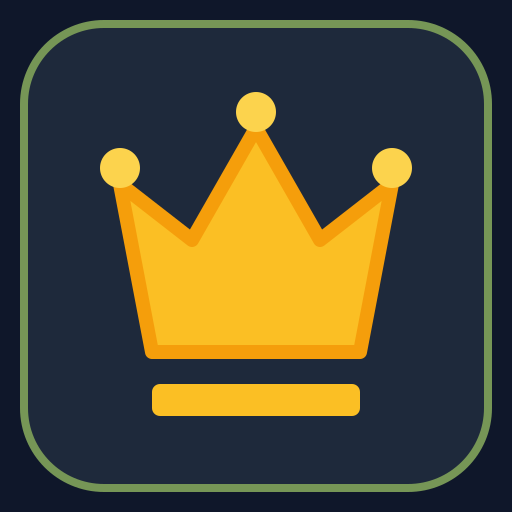
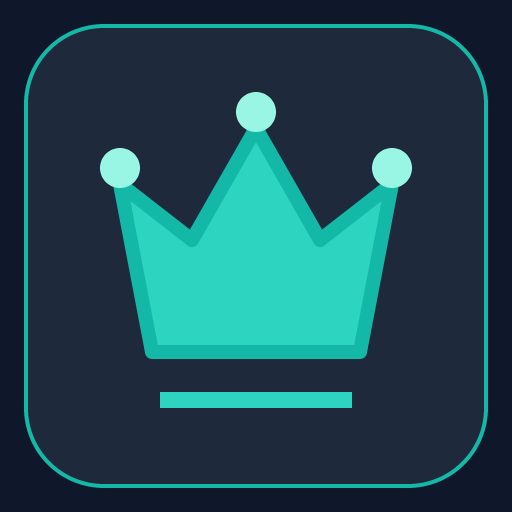
update

Changed region(s): [[0.1875, 0.1562, 0.8125, 0.7188], [0.0312, 0.0312, 0.9688, 0.9688], [0.2812, 0.75, 0.7188, 0.8125]]

diff --git a/src/components/PuzzlePlayer/PuzzlePlayer.tsx b/src/components/PuzzlePlayer/PuzzlePlayer.tsx
@@ -318,7 +318,7 @@ export const PuzzlePlayer: React.FC<PuzzlePlayerProps> = ({
 
   return (
     <div className="flex flex-col items-center w-full max-w-xl mx-auto px-3 sm:px-4 pb-20">
-      <div className="w-full mb-1.5 flex items-center justify-between gap-2 rounded-lg border border-amber-500/20 bg-amber-500/5 px-3 py-1.5 text-[11px] font-semibold leading-snug text-amber-200/90">
+      <div className="w-full mb-1.5 flex items-center justify-between gap-2 rounded-lg border border-teal-500/20 bg-teal-500/5 px-3 py-1.5 text-[11px] font-semibold leading-snug text-teal-200/90">
         <span className="min-w-0 truncate">{categoryLine}</span>
         {hasVariations && (
           <div className="flex shrink-0 items-center gap-1">
@@ -335,8 +335,8 @@ export const PuzzlePlayer: React.FC<PuzzlePlayerProps> = ({
                   title={`${variation.label}${isComplete ? ' (completed)' : ''}`}
                   className={`rounded-md border px-2 py-1 text-[10px] font-semibold transition-colors ${
                     isSelected
-                      ? 'border-sky-400 bg-sky-400/20 text-sky-100'
-                      : 'border-slate-700 bg-slate-900 text-slate-300 hover:border-sky-500/60'
+                      ? 'border-teal-400 bg-teal-400/20 text-teal-100'
+                      : 'border-slate-700 bg-slate-900 text-slate-300 hover:border-teal-500/60'
                   }`}
                 >
                   V{index + 1}{isComplete ? ' ✓' : ''}
@@ -366,10 +366,10 @@ export const PuzzlePlayer: React.FC<PuzzlePlayerProps> = ({
             title={isBookmarked ? 'Remove from favorites' : 'Add to favorites'}
             aria-label={isBookmarked ? 'Remove from favorites' : 'Add to favorites'}
             className={`p-2 rounded-lg transition-colors min-h-[36px] min-w-[36px] flex items-center justify-center ${
-              isBookmarked ? 'text-amber-400 bg-amber-400/10' : 'text-slate-400 hover:text-slate-200 hover:bg-slate-800'
+              isBookmarked ? 'text-teal-400 bg-teal-400/10' : 'text-slate-400 hover:text-slate-200 hover:bg-slate-800'
             }`}
           >
-            <Bookmark className={`w-4 h-4 ${isBookmarked ? 'fill-amber-400' : ''}`} />
+            <Bookmark className={`w-4 h-4 ${isBookmarked ? 'fill-teal-400' : ''}`} />
           </button>
 
           <button
@@ -388,7 +388,7 @@ export const PuzzlePlayer: React.FC<PuzzlePlayerProps> = ({
             aria-label="Flip board orientation"
             className="px-2 py-1 text-slate-300 hover:text-white bg-slate-800/90 hover:bg-slate-700/90 rounded-lg text-xs font-medium flex items-center gap-1 transition-colors min-h-[36px]"
           >
-            <RotateCw className="w-3.5 h-3.5 text-amber-400" />
+            <RotateCw className="w-3.5 h-3.5 text-teal-400" />
             <span className="hidden xs:inline">Flip</span>
           </button>
 
@@ -401,7 +401,7 @@ export const PuzzlePlayer: React.FC<PuzzlePlayerProps> = ({
             ) : activeMoves.length > 0 ? (
               <span className="text-slate-400 font-medium">Practice</span>
             ) : (
-              <span className="text-amber-400/90 font-medium text-[11px]">Pending</span>
+              <span className="text-teal-400/90 font-medium text-[11px]">Pending</span>
             )}
           </div>
         </div>
@@ -430,7 +430,7 @@ export const PuzzlePlayer: React.FC<PuzzlePlayerProps> = ({
                 : status === 'wrong'
                 ? 'text-rose-400'
                 : status === 'waiting_opponent'
-                ? 'text-amber-400 animate-pulse'
+                ? 'text-teal-400 animate-pulse'
                 : 'text-slate-200'
             }`}
           >
@@ -440,7 +440,7 @@ export const PuzzlePlayer: React.FC<PuzzlePlayerProps> = ({
           <div className="flex items-center justify-between text-xs text-slate-400">
             <span>Find the best move in this exercise</span>
             {moveHistory.length > 0 && (
-              <span className="font-mono text-amber-300 font-semibold">{moveHistory.join(' ')}</span>
+              <span className="font-mono text-teal-300 font-semibold">{moveHistory.join(' ')}</span>
             )}
           </div>
         )}
@@ -479,10 +479,10 @@ export const PuzzlePlayer: React.FC<PuzzlePlayerProps> = ({
         {/* Hint button */}
         <button
           onClick={handleRequestHint}
-          className="flex flex-col items-center justify-center p-2 rounded-xl bg-amber-500/15 border border-amber-500/30 text-amber-300 hover:bg-amber-500/25 active:scale-95 transition-all min-h-[48px]"
+          className="flex flex-col items-center justify-center p-2 rounded-xl bg-teal-500/15 border border-teal-500/30 text-teal-300 hover:bg-teal-500/25 active:scale-95 transition-all min-h-[48px]"
           title="Get a hint"
         >
-          <Lightbulb className="w-5 h-5 text-amber-400" />
+          <Lightbulb className="w-5 h-5 text-teal-400" />
           <span className="text-[10px] font-medium mt-0.5">Hint {hintTier > 0 ? `(${hintTier}/3)` : ''}</span>
         </button>
 

diff --git a/src/components/Navigation/TopBar.tsx b/src/components/Navigation/TopBar.tsx
@@ -44,9 +44,12 @@ export const TopBar: React.FC<TopBarProps> = ({
       <div className="max-w-4xl mx-auto flex flex-col gap-2">
         <div className="flex items-center justify-between gap-2 min-h-9">
           <div className="flex items-center gap-2 min-w-0">
-            <Crown className="w-7 h-7 shrink-0 text-amber-400" aria-hidden="true" />
-            <span className="font-bold text-base sm:text-lg text-slate-100 whitespace-nowrap">
-              Marama - Chess Tactics Trainer
+            <div className="w-9 h-9 shrink-0 rounded-xl border border-teal-400/30 bg-teal-400/10 flex items-center justify-center">
+              <Crown className="w-5 h-5 text-teal-300" aria-hidden="true" />
+            </div>
+            <span className="font-bold text-base sm:text-lg whitespace-nowrap">
+              <span className="text-teal-300">Marama</span>
+              <span className="text-slate-100"> - Chess Tactics Trainer</span>
             </span>
           </div>
         </div>
@@ -59,7 +62,7 @@ export const TopBar: React.FC<TopBarProps> = ({
                 className="flex items-center gap-1.5 px-2.5 py-1.5 rounded-xl bg-slate-900 hover:bg-slate-800 border border-slate-800 text-xs font-bold text-white transition-colors min-h-[38px]"
                 title="Switch Step level"
               >
-                <span className="text-amber-400 font-extrabold">{selectedStep === 'All' ? 'All Steps' : selectedStep}</span>
+                <span className="text-teal-400 font-extrabold">{selectedStep === 'All' ? 'All Steps' : selectedStep}</span>
                 <ChevronDown className="w-3.5 h-3.5 text-slate-400" />
               </button>
 
@@ -74,7 +77,7 @@ export const TopBar: React.FC<TopBarProps> = ({
                       setShowStepMenu(false);
                     }}
                     className={`w-full text-left px-2 py-1.5 rounded-lg text-xs transition-colors ${
-                      selectedStep === 'All' ? 'bg-amber-500/20 text-amber-300 font-bold' : 'text-slate-300 hover:bg-slate-800'
+                      selectedStep === 'All' ? 'bg-teal-500/20 text-teal-300 font-bold' : 'text-slate-300 hover:bg-slate-800'
                     }`}
                   >
                     All Steps
@@ -87,7 +90,7 @@ export const TopBar: React.FC<TopBarProps> = ({
                         setShowStepMenu(false);
                       }}
                       className={`w-full text-left px-2 py-1.5 rounded-lg text-xs transition-colors ${
-                        selectedStep === step ? 'bg-amber-500/20 text-amber-300 font-bold' : 'text-slate-300 hover:bg-slate-800'
+                        selectedStep === step ? 'bg-teal-500/20 text-teal-300 font-bold' : 'text-slate-300 hover:bg-slate-800'
                       }`}
                     >
                       {step}
@@ -99,8 +102,8 @@ export const TopBar: React.FC<TopBarProps> = ({
 
             <div className="flex items-center gap-1.5 text-xs text-slate-300 shrink-0">
               {streak > 0 && (
-                <div className="flex items-center gap-1 text-amber-400 font-semibold">
-                  <Flame className="w-3.5 h-3.5 fill-amber-400" />
+                <div className="flex items-center gap-1 text-teal-400 font-semibold">
+                  <Flame className="w-3.5 h-3.5 fill-teal-400" />
                   <span className="font-mono tabular-nums">{streak}d</span>
                 </div>
               )}
@@ -113,10 +116,10 @@ export const TopBar: React.FC<TopBarProps> = ({
           <div className="flex items-center gap-1 shrink-0 relative">
             <button
               onClick={onOpenInstallModal}
-              className="flex items-center gap-1 px-2.5 py-1.5 rounded-xl bg-amber-500/15 hover:bg-amber-500/25 border border-amber-500/30 text-amber-300 text-xs font-medium transition-colors min-h-[38px]"
+              className="flex items-center gap-1 px-2.5 py-1.5 rounded-xl bg-teal-500/15 hover:bg-teal-500/25 border border-teal-500/30 text-teal-300 text-xs font-medium transition-colors min-h-[38px]"
               title="Install on iPhone / Android"
             >
-              <Download className="w-3.5 h-3.5 text-amber-400" />
+              <Download className="w-3.5 h-3.5 text-teal-400" />
               <span className="hidden xs:inline text-[11px]">Install</span>
             </button>
 
@@ -142,7 +145,7 @@ export const TopBar: React.FC<TopBarProps> = ({
                         setShowThemeMenu(false);
                       }}
                       className={`w-full text-left px-2 py-1.5 rounded-lg text-xs flex items-center gap-2 transition-colors ${
-                        theme === boardTheme.id ? 'bg-amber-500/15 text-amber-300 font-semibold' : 'text-slate-300 hover:bg-slate-800'
+                        theme === boardTheme.id ? 'bg-teal-500/15 text-teal-300 font-semibold' : 'text-slate-300 hover:bg-slate-800'
                       }`}
                     >
                       <span className={`w-3 h-3 rounded-full ${boardTheme.preview}`} />

diff --git a/src/components/Navigation/PWAInstallModal.tsx b/src/components/Navigation/PWAInstallModal.tsx
@@ -25,7 +25,7 @@ export const PWAInstallModal: React.FC<PWAInstallModalProps> = ({ isOpen, onClos
 
         {/* Modal Header */}
         <div className="flex items-center gap-3 mb-4">
-          <div className="w-12 h-12 rounded-2xl bg-amber-500/10 border border-amber-500/30 flex items-center justify-center text-amber-400 shrink-0">
+          <div className="w-12 h-12 rounded-2xl bg-teal-500/10 border border-teal-500/30 flex items-center justify-center text-teal-400 shrink-0">
             <Smartphone className="w-6 h-6" />
           </div>
           <div>
@@ -36,8 +36,8 @@ export const PWAInstallModal: React.FC<PWAInstallModalProps> = ({ isOpen, onClos
 
         {/* If Chromium direct install button is ready */}
         {isInstallable && (
-          <div className="mb-5 p-3.5 bg-amber-500/15 border border-amber-500/30 rounded-2xl">
-            <p className="text-xs text-amber-300 font-medium mb-2.5">
+          <div className="mb-5 p-3.5 bg-teal-500/15 border border-teal-500/30 rounded-2xl">
+            <p className="text-xs text-teal-300 font-medium mb-2.5">
               Instant 1-Click Install is available for your browser:
             </p>
             <button
@@ -45,7 +45,7 @@ export const PWAInstallModal: React.FC<PWAInstallModalProps> = ({ isOpen, onClos
                 await install();
                 onClose();
               }}
-              className="w-full py-2.5 bg-amber-500 hover:bg-amber-400 text-slate-950 font-bold rounded-xl text-xs flex items-center justify-center gap-2 shadow-lg min-h-[44px]"
+              className="w-full py-2.5 bg-teal-500 hover:bg-teal-400 text-slate-950 font-bold rounded-xl text-xs flex items-center justify-center gap-2 shadow-lg min-h-[44px]"
             >
               <Download className="w-4 h-4" /> Install App to Device
             </button>
@@ -54,13 +54,13 @@ export const PWAInstallModal: React.FC<PWAInstallModalProps> = ({ isOpen, onClos
 
         {/* iOS Step-by-Step Guide */}
         <div className="space-y-3.5">
-          <div className="text-xs font-semibold text-amber-400 uppercase tracking-wider">
+          <div className="text-xs font-semibold text-teal-400 uppercase tracking-wider">
             {isIOS ? 'iPhone & iPad (iOS Safari)' : 'Instructions for iOS (Safari)'}
           </div>
 
           {/* Step 1 */}
           <div className="flex items-start gap-3 bg-slate-950/70 border border-slate-800/80 rounded-xl p-3">
-            <div className="w-7 h-7 rounded-lg bg-slate-800 text-amber-400 font-bold text-xs flex items-center justify-center shrink-0 font-mono">
+            <div className="w-7 h-7 rounded-lg bg-slate-800 text-teal-400 font-bold text-xs flex items-center justify-center shrink-0 font-mono">
               1
             </div>
             <div className="text-xs text-slate-300">
@@ -70,18 +70,18 @@ export const PWAInstallModal: React.FC<PWAInstallModalProps> = ({ isOpen, onClos
 
           {/* Step 2 */}
           <div className="flex items-start gap-3 bg-slate-950/70 border border-slate-800/80 rounded-xl p-3">
-            <div className="w-7 h-7 rounded-lg bg-slate-800 text-amber-400 font-bold text-xs flex items-center justify-center shrink-0 font-mono">
+            <div className="w-7 h-7 rounded-lg bg-slate-800 text-teal-400 font-bold text-xs flex items-center justify-center shrink-0 font-mono">
               2
             </div>
             <div className="text-xs text-slate-300">
               Tap the <strong className="text-white">Share</strong> button{' '}
-              <Share className="w-3.5 h-3.5 inline mx-1 text-sky-400" /> in Safari's bottom toolbar.
+              <Share className="w-3.5 h-3.5 inline mx-1 text-teal-400" /> in Safari's bottom toolbar.
             </div>
           </div>
 
           {/* Step 3 */}
           <div className="flex items-start gap-3 bg-slate-950/70 border border-slate-800/80 rounded-xl p-3">
-            <div className="w-7 h-7 rounded-lg bg-slate-800 text-amber-400 font-bold text-xs flex items-center justify-center shrink-0 font-mono">
+            <div className="w-7 h-7 rounded-lg bg-slate-800 text-teal-400 font-bold text-xs flex items-center justify-center shrink-0 font-mono">
               3
             </div>
             <div className="text-xs text-slate-300">
@@ -92,7 +92,7 @@ export const PWAInstallModal: React.FC<PWAInstallModalProps> = ({ isOpen, onClos
 
           {/* Step 4 */}
           <div className="flex items-start gap-3 bg-slate-950/70 border border-slate-800/80 rounded-xl p-3">
-            <div className="w-7 h-7 rounded-lg bg-slate-800 text-amber-400 font-bold text-xs flex items-center justify-center shrink-0 font-mono">
+            <div className="w-7 h-7 rounded-lg bg-slate-800 text-teal-400 font-bold text-xs flex items-center justify-center shrink-0 font-mono">
               4
             </div>
             <div className="text-xs text-slate-300">

diff --git a/src/components/FavoritesList/FavoritesList.tsx b/src/components/FavoritesList/FavoritesList.tsx
@@ -54,7 +54,7 @@ export const FavoritesList: React.FC<FavoritesListProps> = ({
                   className="flex-1 min-w-0 cursor-pointer"
                 >
                   <div className="flex items-center gap-2 text-xs text-slate-400 mb-0.5">
-                    <span className="font-semibold text-amber-400">Page {p.page} · #{p.diagram}</span>
+                    <span className="font-semibold text-teal-400">Page {p.page} · #{p.diagram}</span>
                     <span aria-hidden="true">·</span>
                     <span>{p.sideToMove === 'w' ? 'White' : 'Black'} to move</span>
                     {isSolved && (
@@ -76,15 +76,15 @@ export const FavoritesList: React.FC<FavoritesListProps> = ({
                     title="Remove from favorites"
                     className="p-2 text-slate-500 hover:text-rose-400 rounded-lg min-h-[44px] min-w-[44px] flex items-center justify-center transition-colors"
                   >
-                    <Bookmark className="w-4 h-4 fill-amber-400 text-amber-400" />
+                    <Bookmark className="w-4 h-4 fill-teal-400 text-teal-400" />
                   </button>
 
                   <button
                     onClick={() => onSelectPuzzle(p)}
-                    className="p-2 bg-amber-500/10 hover:bg-amber-500/20 text-amber-400 rounded-lg min-h-[44px] min-w-[44px] flex items-center justify-center transition-colors"
+                    className="p-2 bg-teal-500/10 hover:bg-teal-500/20 text-teal-400 rounded-lg min-h-[44px] min-w-[44px] flex items-center justify-center transition-colors"
                     title="Play puzzle"
                   >
-                    <Play className="w-4 h-4 fill-amber-400" />
+                    <Play className="w-4 h-4 fill-teal-400" />
                   </button>
                 </div>
               </div>

diff --git a/index.html b/index.html
@@ -9,18 +9,18 @@
     <meta property="og:description" content="Practice chess tactics with interactive puzzles, category practice, and progress tracking." />
     <meta property="og:type" content="website" />
     <meta name="twitter:card" content="summary_large_image" />
-    <meta name="theme-color" content="#0f172a" />
+    <meta name="theme-color" content="#0f766e" />
     <meta name="mobile-web-app-capable" content="yes" />
     <meta name="apple-mobile-web-app-capable" content="yes" />
     <meta name="apple-mobile-web-app-status-bar-style" content="black-translucent" />
     <meta name="apple-mobile-web-app-title" content="Marama - Chess Tactics Trainer" />
-    <link rel="apple-touch-icon" href="/apple-touch-icon.png?v=2" />
-    <link rel="icon" type="image/svg+xml" href="/icon.svg?v=2" />
+    <link rel="apple-touch-icon" href="/apple-touch-icon.png?v=3" />
+    <link rel="icon" type="image/svg+xml" href="/icon.svg?v=3" />
     <link rel="preconnect" href="https://fonts.googleapis.com" />
     <link rel="preconnect" href="https://fonts.gstatic.com" crossorigin />
     <link href="https://fonts.googleapis.com/css2?family=Plus+Jakarta+Sans:wght@400;500;600;700;800&family=JetBrains+Mono:wght@500;600&display=swap" rel="stylesheet" />
   </head>
-  <body class="bg-slate-950 text-slate-100 antialiased selection:bg-amber-500 selection:text-slate-950 min-h-screen">
+  <body class="bg-slate-950 text-slate-100 antialiased selection:bg-teal-500 selection:text-slate-950 min-h-screen">
     <div id="root"></div>
     <script type="module" src="/src/main.tsx"></script>
   </body>

diff --git a/src/components/CategoryList/CategoryList.tsx b/src/components/CategoryList/CategoryList.tsx
@@ -119,7 +119,7 @@ export const CategoryList: React.FC<CategoryListProps> = ({
                   className={`w-10 h-10 rounded-xl flex items-center justify-center shrink-0 mt-0.5 ${
                     isComplete
                       ? 'bg-emerald-500/20 text-emerald-400 border border-emerald-500/30'
-                      : 'bg-slate-800 text-amber-400 border border-slate-700'
+                      : 'bg-slate-800 text-teal-400 border border-slate-700'
                   }`}
                 >
                   <IconComponent className="w-5 h-5" />
@@ -130,7 +130,7 @@ export const CategoryList: React.FC<CategoryListProps> = ({
                     {cat.steps.join(', ')}
                   </div>
 
-                  <h3 className="text-sm font-bold text-slate-100 group-hover:text-amber-400 transition-colors truncate">
+                  <h3 className="text-sm font-bold text-slate-100 group-hover:text-teal-400 transition-colors truncate">
                     {cat.dutch}
                   </h3>
 
@@ -139,7 +139,7 @@ export const CategoryList: React.FC<CategoryListProps> = ({
                     <div className="flex-1 h-1.5 bg-slate-800 rounded-full overflow-hidden">
                       <div
                         className={`h-full transition-all duration-300 rounded-full ${
-                          isComplete ? 'bg-emerald-500' : 'bg-amber-500'
+                          isComplete ? 'bg-emerald-500' : 'bg-teal-500'
                         }`}
                         style={{ width: `${percent}%` }}
                       />

diff --git a/src/components/ChessBoard/ChessBoard.tsx b/src/components/ChessBoard/ChessBoard.tsx
@@ -247,10 +247,10 @@ export const ChessBoard: React.FC<ChessBoardProps> = ({
                   data-square={sq}
                 >
                   {/* Last Move Highlight */}
-                  {isLastMove && <div className="absolute inset-0 bg-amber-400/35 pointer-events-none" />}
+                  {isLastMove && <div className="absolute inset-0 bg-teal-400/35 pointer-events-none" />}
 
                   {/* Selected Square Highlight */}
-                  {isSelected && <div className="absolute inset-0 bg-amber-300/40 ring-2 ring-amber-400 inset-0 pointer-events-none z-10" />}
+                  {isSelected && <div className="absolute inset-0 bg-teal-300/40 ring-2 ring-teal-400 inset-0 pointer-events-none z-10" />}
 
                   {/* King in Check Highlight */}
                   {isInCheck && (
@@ -259,7 +259,7 @@ export const ChessBoard: React.FC<ChessBoardProps> = ({
 
                   {/* Hint Highlight */}
                   {isHint && (
-                    <div className="absolute inset-0 ring-4 ring-amber-400 ring-offset-1 animate-ping pointer-events-none z-15 opacity-75" />
+                    <div className="absolute inset-0 ring-4 ring-teal-400 ring-offset-1 animate-ping pointer-events-none z-15 opacity-75" />
                   )}
 
                   {/* Piece */}

diff --git a/src/components/Navigation/BottomTabBar.tsx b/src/components/Navigation/BottomTabBar.tsx
@@ -31,13 +31,13 @@ export const BottomTabBar: React.FC<BottomTabBarProps> = ({
               key={tab.id}
               onClick={() => onTabChange(tab.id)}
               className={`relative flex flex-col items-center justify-center h-full min-h-[48px] transition-colors ${
-                isActive ? 'text-amber-400' : 'text-slate-400 hover:text-slate-200'
+                isActive ? 'text-teal-400' : 'text-slate-400 hover:text-slate-200'
               }`}
             >
               <div className="relative">
                 <Icon className={`w-5 h-5 transition-transform ${isActive ? 'scale-110' : ''}`} />
                 {tab.badge && (
-                  <span className="absolute -top-1.5 -right-2 bg-amber-500 text-slate-950 font-bold text-[9px] w-4 h-4 rounded-full flex items-center justify-center font-mono">
+                  <span className="absolute -top-1.5 -right-2 bg-teal-500 text-slate-950 font-bold text-[9px] w-4 h-4 rounded-full flex items-center justify-center font-mono">
                     {tab.badge}
                   </span>
                 )}

diff --git a/src/App.tsx b/src/App.tsx
@@ -247,13 +247,13 @@ export default function App() {
 
         {/* Category Active Filter Banner (if filtering by category in Puzzles tab) */}
         {activeTab === 'puzzles' && categoryFilter && (
-          <div className="w-full bg-amber-500/15 border-b border-amber-500/30 px-4 py-2 flex items-center justify-between text-xs">
-            <span className="text-amber-300 font-medium truncate">
+          <div className="w-full bg-teal-500/15 border-b border-teal-500/30 px-4 py-2 flex items-center justify-between text-xs">
+            <span className="text-teal-300 font-medium truncate">
               Practicing: <strong>{categoryFilter}</strong>
             </span>
             <button
               onClick={() => setCategoryFilter(null)}
-              className="text-amber-400 font-semibold hover:underline text-[11px] shrink-0 ml-2"
+              className="text-teal-400 font-semibold hover:underline text-[11px] shrink-0 ml-2"
             >
               Clear Filter
             </button>

diff --git a/vite.config.ts b/vite.config.ts
@@ -15,9 +15,9 @@ export default defineConfig(() => {
         manifest: {
           id: '/',
           name: 'Marama - Chess Tactics Trainer',
-          short_name: 'Marama - Chess Tactics Trainer',
+          short_name: 'Marama',
           description: 'Practice chess tactics with interactive puzzles, category practice, and progress tracking.',
-          theme_color: '#0f172a',
+          theme_color: '#0f766e',
           background_color: '#0f172a',
           display: 'standalone',
           start_url: '/',
